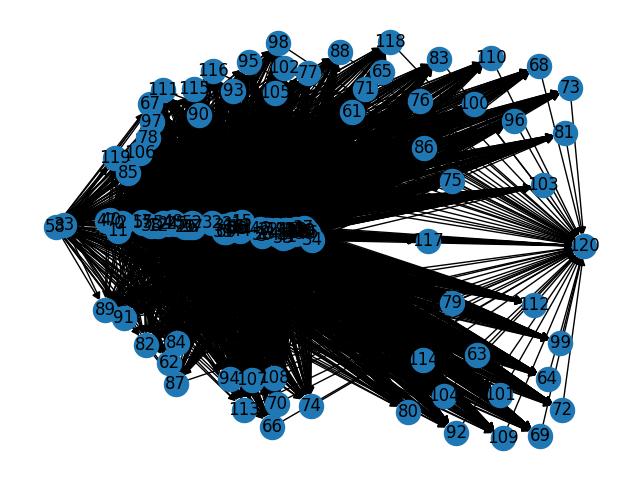
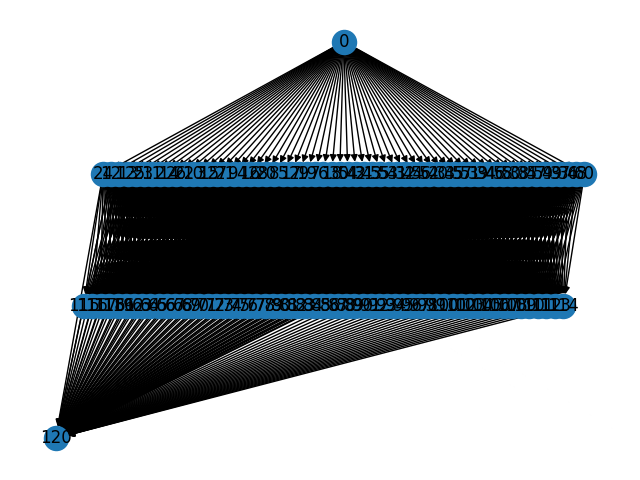
start on finding most similar

diff --git a/cluster_model.py b/cluster_model.py
@@ -35,8 +35,8 @@ DEBUG_N_DATASIZE = 100
 DEBUG_N_CLUSTERS_MIN = 60
 DEBUG_N_CLUSTERS_MAX = 70
 
-#DEBUG_N_CLUSTERS_MIN = 10
-#DEBUG_N_CLUSTERS_MAX = 20
+# DEBUG_N_CLUSTERS_MIN = 10
+# DEBUG_N_CLUSTERS_MAX = 20
 
 DEBUG_N_BLOCKS = 3
 DEBUG = True
@@ -53,6 +53,10 @@ def create_param_tag():
     m.update(
         f'{MODEL_NAME}{DATASET_NAME}{SEED}{N_DATASIZE}{N_CLUSTERS_MIN}{N_CLUSTERS_MAX}{N_BLOCKS}'.encode())
     return m.hexdigest()[:32]
+
+
+def similarity_metric(a, b):
+    return np.inner(a, b)
 
 
 def get_save_tag(prepend: str):
@@ -104,28 +108,35 @@ def forward_pass(model_lens: transformer_lens.HookedTransformer, t: str, layer: 
         o = model_lens.run_with_cache(t)[1]
     return o[layer]
 
+def get_per_layer_emb_dataset(model_lens: transformer_lens.HookedTransformer, dataset: Dataset, layers: List[str]) -> List[npt.NDArray[np.float64]]:
+    layers_out = []
+    for layer in layers:
+        ds_name = get_save_tag(f'{layer}_dataset_embd')
 
-def get_optimal_layer_kmeans(model_lens: transformer_lens.HookedTransformer, dataset, layer: str) -> List[npt.NDArray[np.float64]]:
+        # TODO: DOES THIS WORK?
+        if os.path.exists(ds_name):
+            print("Loading dataset from cache")
+            dataset_np = pickle.load(open(ds_name, 'rb'))
+        else:
+            # TODO: think about this in terms of flattening the dataset
+            dataset_np_non_flat = [list(forward_pass(model_lens, t, layer).squeeze(
+                0).detach().cpu().numpy()) for t in dataset]
+            dataset_np = [d for ds in dataset_np_non_flat for d in ds]
+            pickle.dump(dataset_np, open(ds_name, 'wb'))    
+        layers_out.append(dataset_np)
+    return np.stack(layers_out, axis=0)
+
+def get_optimal_layer_kmeans(dataset_np: npt.NDArray, layers: List[str], layer: str) -> List[npt.NDArray[np.float64]]:
     """
     For a specific layer, find the optimal number of clusters: TODO document some references for this is actually done
     Then, return the found centroids for each cluster
     """
     print(
         f"Finding optimal number of clusters and such clusters for layer {layer}")
+    layer_idx = layers.index(layer)
     # ds_name = f'metadata/{layer}_dataset_embd__SEED_{SEED}__SIZE_{N_DATASIZE}.pkl'
-    ds_name = get_save_tag(f'{layer}_dataset_embd')
-
-    # TODO: DOES THIS WORK?
-    if os.path.exists(ds_name):
-        print("Loading dataset from cache")
-        dataset_np = pickle.load(open(ds_name, 'rb'))
-    else:
-        # TODO: think about this in terms of flattening the dataset
-        dataset_np_non_flat = [list(forward_pass(model_lens, t, layer).squeeze(
-            0).detach().cpu().numpy()) for t in dataset]
-        dataset_np = [d for ds in dataset_np_non_flat for d in ds]
-        pickle.dump(dataset_np, open(ds_name, 'wb'))
-    clusters = kmeans_silhouette_method(dataset_np, layer)
+    
+    clusters = kmeans_silhouette_method(dataset_np[layer_idx], layer)
     return clusters
 
 
@@ -146,7 +157,8 @@ def cluster_model_lattice(model_lens, layers_to_centroids: List[List[npt.NDArray
         # TODO: USING INNER PRODUCT RN
         """
         next_block_ret = forward_on_block(model_lens, next_block_idx, cluster)
-        inner_prods = [np.inner(next_block_ret, c) for c in next_clusters]
+        inner_prods = [similarity_metric(next_block_ret, c)
+                       for c in next_clusters]
         if metric_cutoff is not None:
             # TODO: SHOULD THESE BE NORMED FOR COS SIM?
             inner_prods = [ip if ip >=
@@ -172,7 +184,8 @@ def to_nx_graph(cluster_scores: List[List[npt.NDArray]]) -> nx.DiGraph:
     node_idx += 1
     n_clusters = sum([len(cs) for cs in cluster_scores])
     eps = 1e-6
-    most_neg = (min([min([min(c) for c in cs]) for cs in cluster_scores])) + eps
+    most_neg = (min([min([min(c) for c in cs])
+                for cs in cluster_scores])) + eps
     print(f"Most negative absolute value: {most_neg}")
     most_neg_abs = abs(most_neg)
 
@@ -204,9 +217,39 @@ def to_nx_graph(cluster_scores: List[List[npt.NDArray]]) -> nx.DiGraph:
     for i in range(len(cluster_scores[-1])):
         G.add_edge(last_layer_start_idx + i, sink, weight=1)
 
-    nx.draw(G, with_labels=True)
+    nx.draw(G, with_labels=True, pos=nx.nx_pydot.graphviz_layout(G, prog='dot'))
     plt.savefig("graph.png")
     return G, source, sink
+
+
+def find_highest_token_per_path(token_to_original_ds: List[int], token_to_pos_original_ds: List[int],
+                                embd_dataset: npt.NDArray,
+                                path: List[int], clusters: List[List[npt.NDArray]],
+                                score_weighting_per_layer: npt.NDArray, top_n=20):
+    """
+    embd_dataset: The outer index corresponds to the layer, the inner index corresponds to the token
+    """
+    # Set the outer index to the token
+    token_per_layer = embd_dataset.swapaxes(0, 1)
+    scores = np.zeros(len(token_per_layer))
+    assert token_per_layer.shape[1] == len(path)
+
+    for i, tok in enumerate(token_per_layer):
+        score = 0
+        for layer in range(len(path)):
+            similarity_metric = np.inner(
+                tok[layer], clusters[layer][path[layer]])
+            # TODO: THIS SHOULD NOT BE A SUM
+            score += similarity_metric * score_weighting_per_layer[layer]
+        scores[i] = score
+
+    sorted_scores = np.argsort(scores, reverse=True)
+    top = []
+    for i in range(top_n):
+        idx = sorted_scores[i]
+        top.append(
+            (token_to_original_ds[idx], token_to_pos_original_ds[idx], scores[idx]))
+    return top
 
 
 def find_max_weight(cluster_scores: List[List[npt.NDArray]], K=100):
@@ -220,6 +263,7 @@ def find_max_weight(cluster_scores: List[List[npt.NDArray]], K=100):
     # paths = utils.find_top_k_paths(G, source, sink, K)
     print(paths)
     return None, G
+
 
 def get_transformer(name: str, device=DEFAULT_DEVICE):
     """
@@ -248,13 +292,32 @@ def main():
     # forward_pass(model, ds['train'][0]['text'], "")
 
     clusters = []
+    labs = [get_block_out_label(i) for i in range(N_BLOCKS)]
+    ds_emb = get_per_layer_emb_dataset(model, ds, labs)
     for i in range(N_BLOCKS):
         c = get_optimal_layer_kmeans(
-            model, ds, get_block_out_label(i))
+            ds_emb, labs, get_block_out_label(i))
         clusters.append(c)
 
-    lattice = cluster_model_lattice(model, clusters, similarity_cutoff=5)
+    lattice = cluster_model_lattice(model, clusters, similarity_cutoff=19)
     max_flow = find_max_weight(lattice)
+    
+
+    token_to_original_ds = []
+    token_to_pos_original_ds = []
+
+    for i, d in enumerate(ds):
+        tokenized = tokenizer(d['text'], return_tensors='pt')
+        for j in range(len(tokenized['input_ids'])):
+            token_to_original_ds.append(i)
+            token_to_pos_original_ds.append(j)
+
+    token_to_original_ds = [i for i in range(len(ds))]
+    find_highest_token_per_path(
+        token_to_pos_original_ds=token_to_pos_original_ds,
+        token_to_original_ds=token_to_original_ds,
+        embd_dataset=ds_emb, path=[15, 75],
+        clusters=clusters, score_weighting_per_layer=np.array([1, 1]), top_n=20)
     return max_flow
 
 
